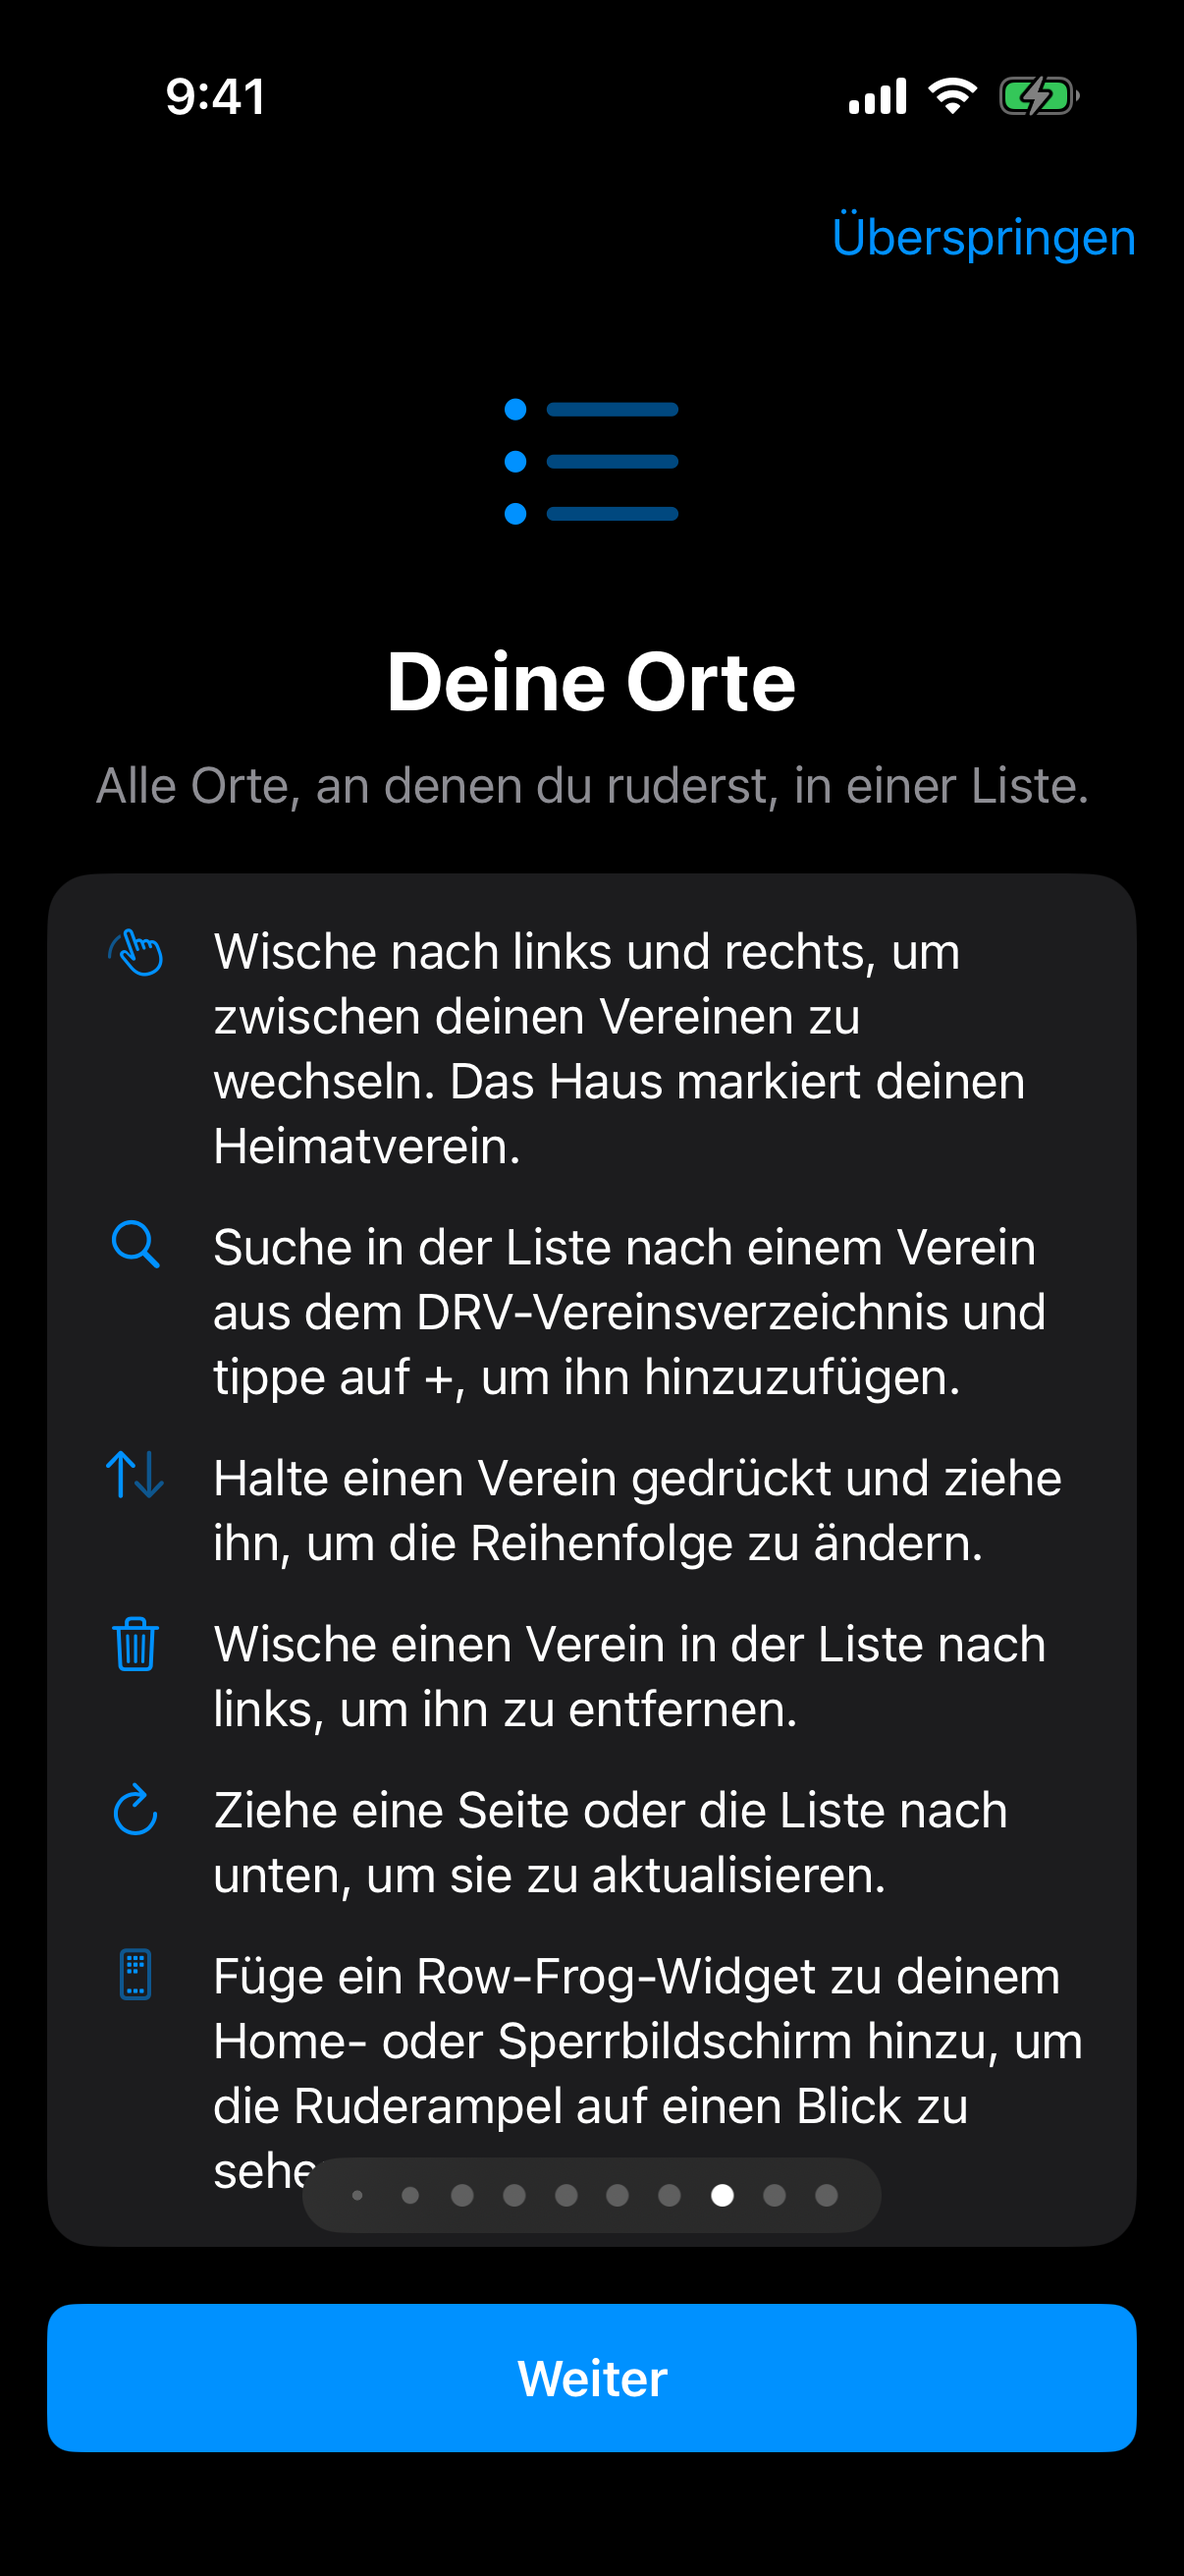
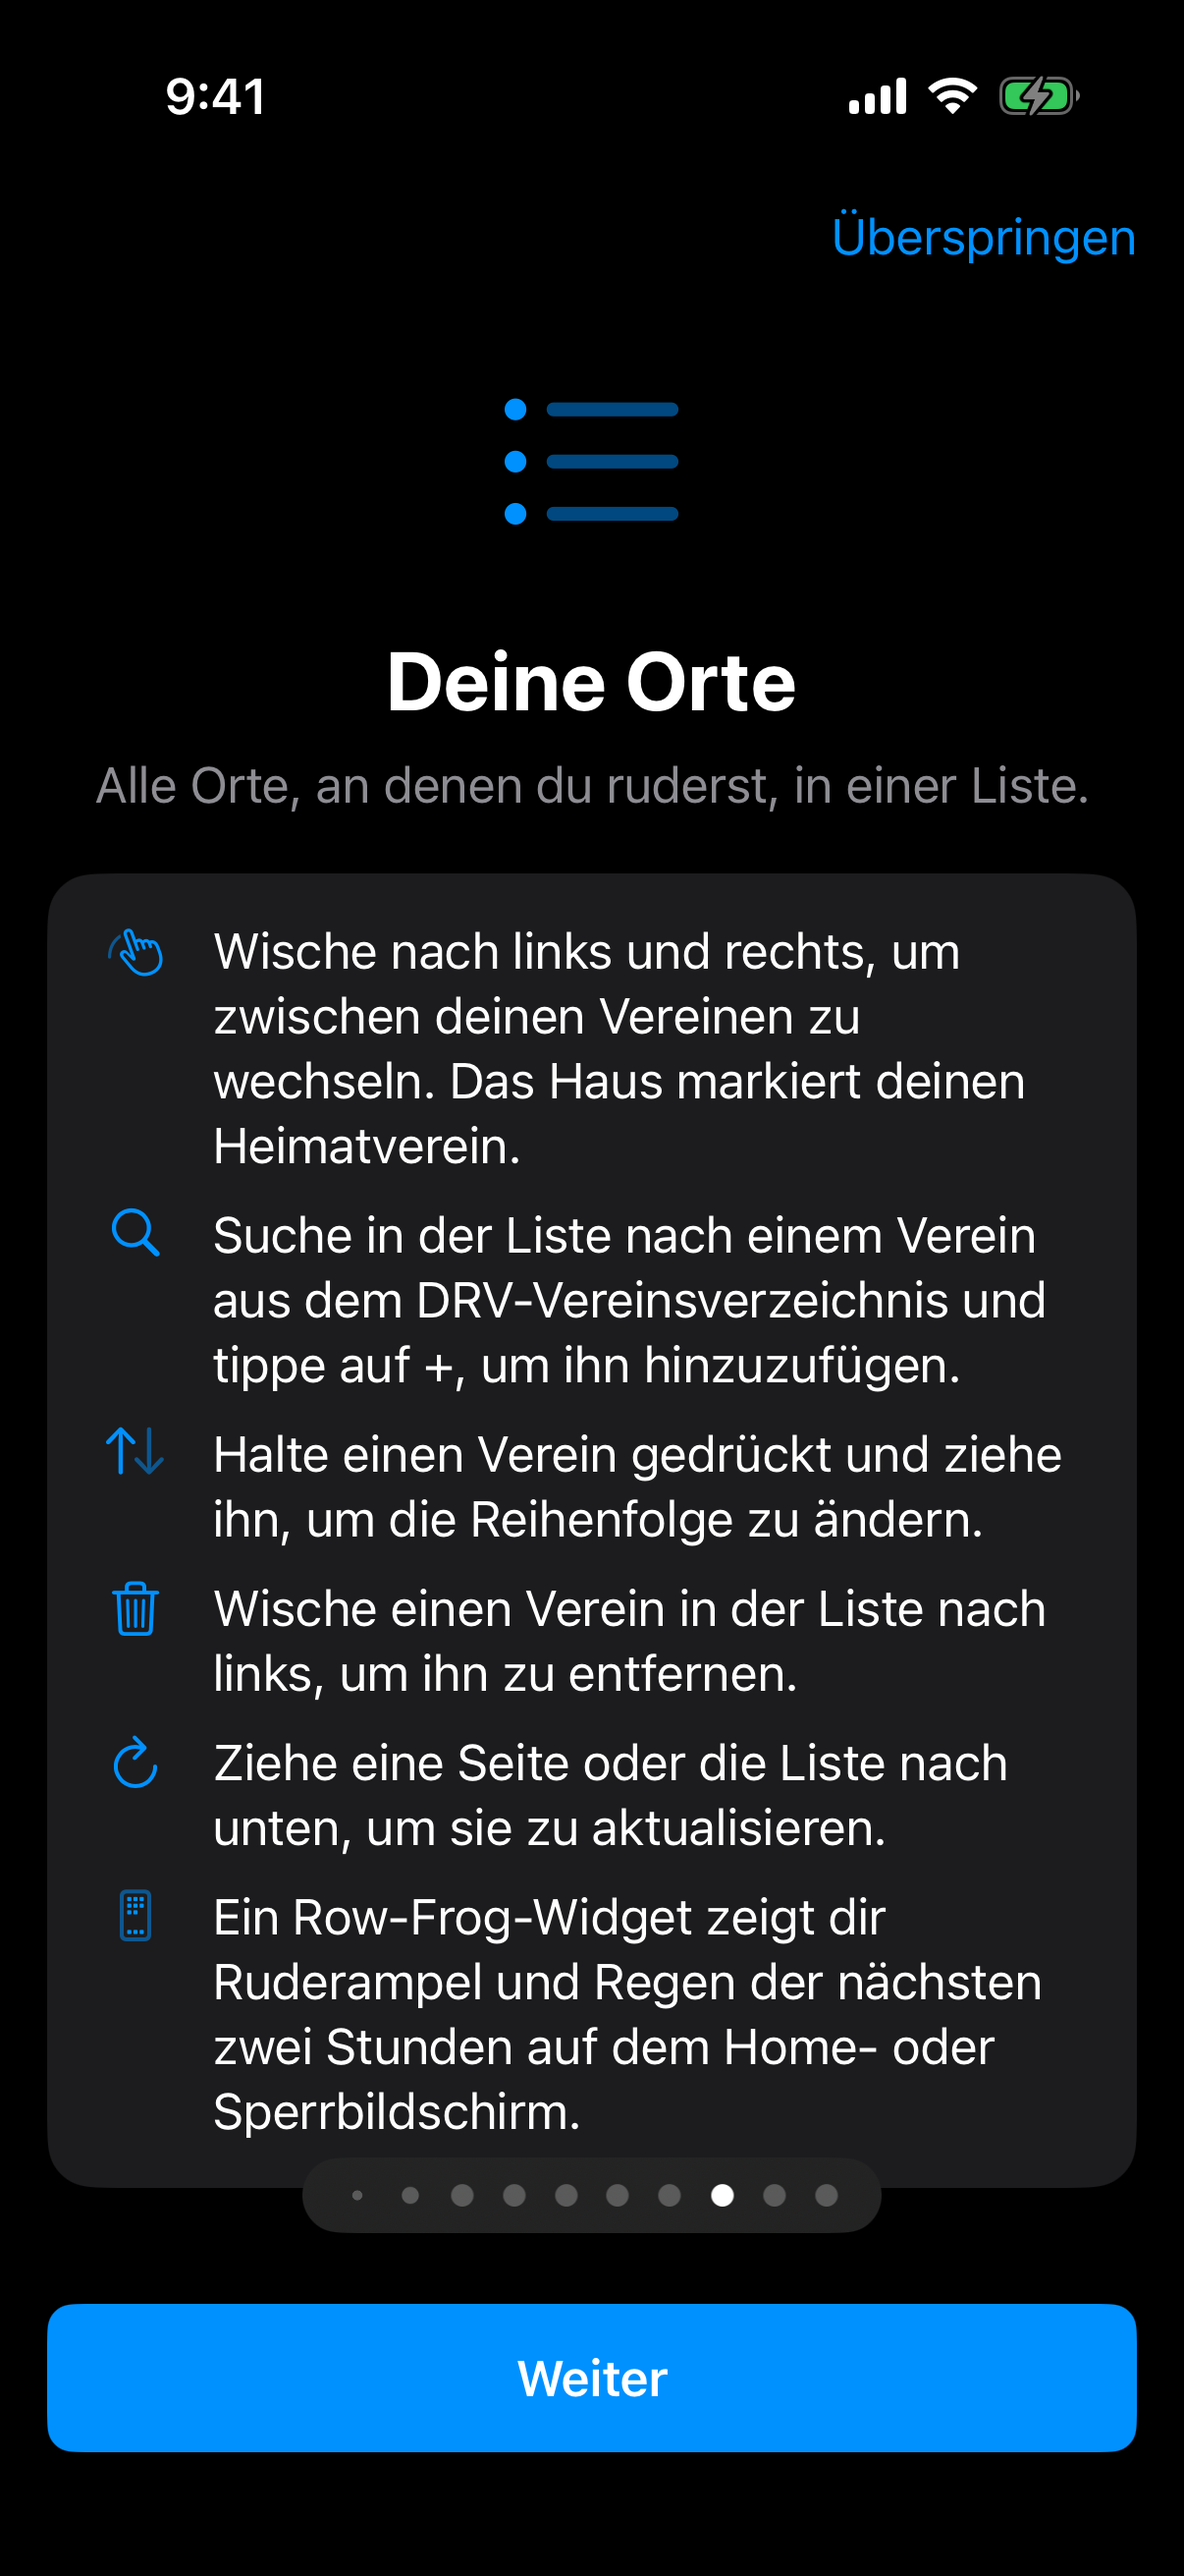
Tour: the widget line also mentions rain on the radar (#45)
Claude-Session: https://claude.ai/code/session_015sMnup645UpHYTvsrbtz5W

diff --git a/ios/RowFrog/Localization.swift b/ios/RowFrog/Localization.swift
@@ -563,7 +563,7 @@ enum German {
         "Add the other places you row, or skip this and add clubs later in the list.": "Füge die anderen Orte hinzu, an denen du ruderst, oder überspringe das und füge Vereine später in der Liste hinzu.",
         "Suggestions": "Vorschläge",
         "Near you": "In deiner Nähe",
-        "Add a Row Frog widget to your home or lock screen to see the rowing light at a glance.": "Füge ein Row-Frog-Widget zu deinem Home- oder Sperrbildschirm hinzu, um die Ruderampel auf einen Blick zu sehen.",
+        "A Row Frog widget on your home or lock screen shows the rowing light and rain on the radar in the next two hours.": "Ein Row-Frog-Widget zeigt dir Ruderampel und Regen der nächsten zwei Stunden auf dem Home- oder Sperrbildschirm.",
         "Landscape and wide screens": "Querformat und breite Bildschirme",
         "Turn your iPhone sideways, or use a wide screen, to see more at once.": "Dreh dein iPhone quer oder nutze einen breiten Bildschirm, um mehr auf einmal zu sehen.",
         "The location list stays on the left, the club page on the right.": "Die Ortsliste bleibt links, die Vereinsseite steht rechts.",

diff --git a/ios/RowFrog/Tutorial.swift b/ios/RowFrog/Tutorial.swift
@@ -243,7 +243,7 @@ enum TourPage: Int, CaseIterable, Identifiable {
             TourPoint(symbol: "arrow.up.arrow.down", text: tr("Touch and hold a club, then drag to reorder.")),
             TourPoint(symbol: "trash", text: tr("Swipe a club in the list to the left to remove it.")),
             TourPoint(symbol: "arrow.clockwise", text: tr("Pull a page or the list down to refresh.")),
-            TourPoint(symbol: "apps.iphone", text: tr("Add a Row Frog widget to your home or lock screen to see the rowing light at a glance.")),
+            TourPoint(symbol: "apps.iphone", text: tr("A Row Frog widget on your home or lock screen shows the rowing light and rain on the radar in the next two hours.")),
         ]
         case .wideScreen: [
             TourPoint(symbol: "sidebar.left", text: tr("The location list stays on the left, the club page on the right.")),
